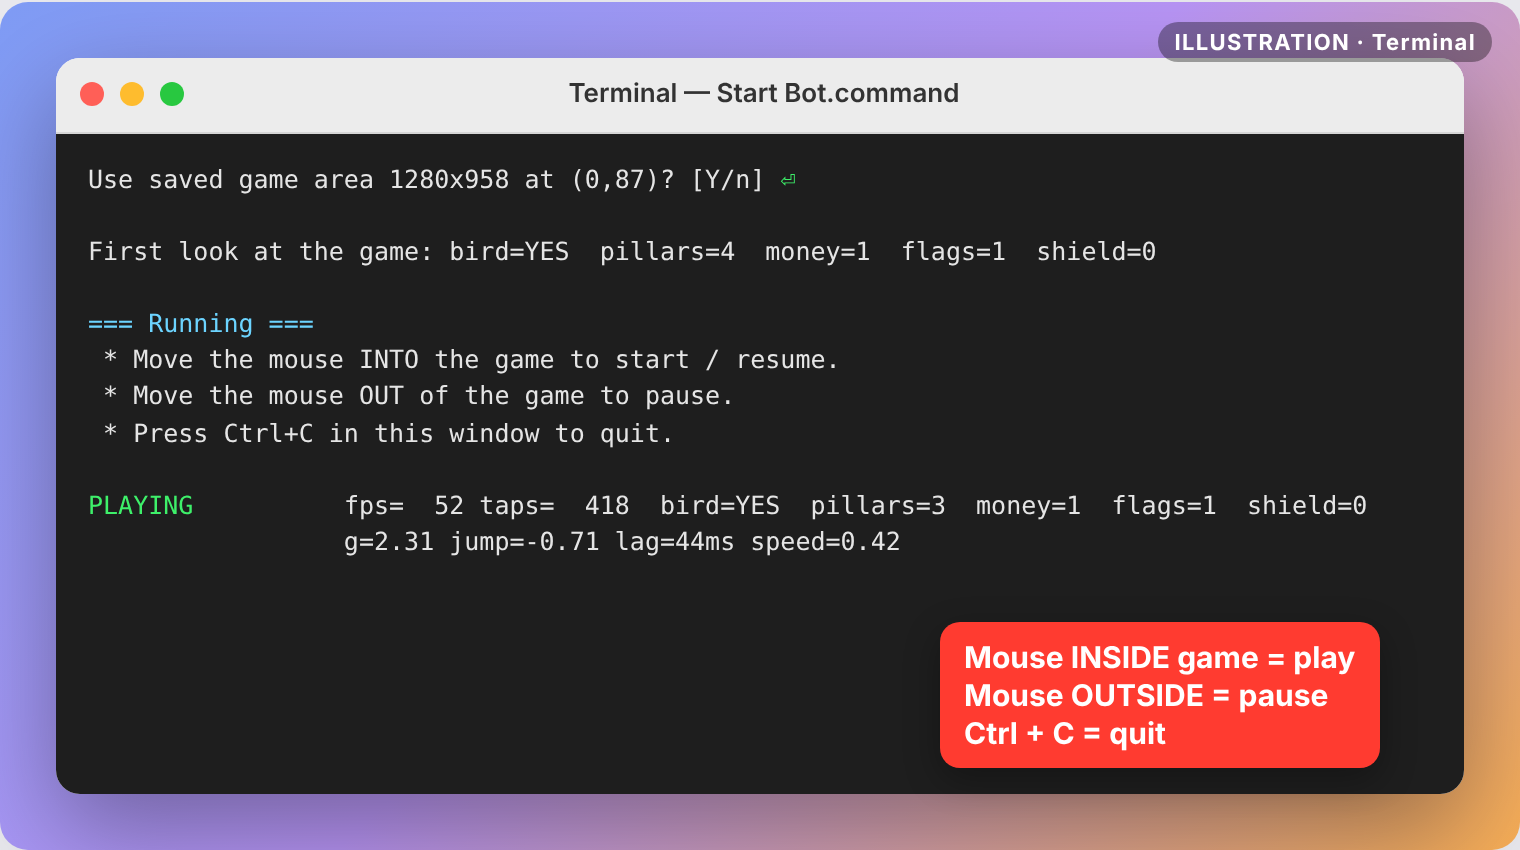
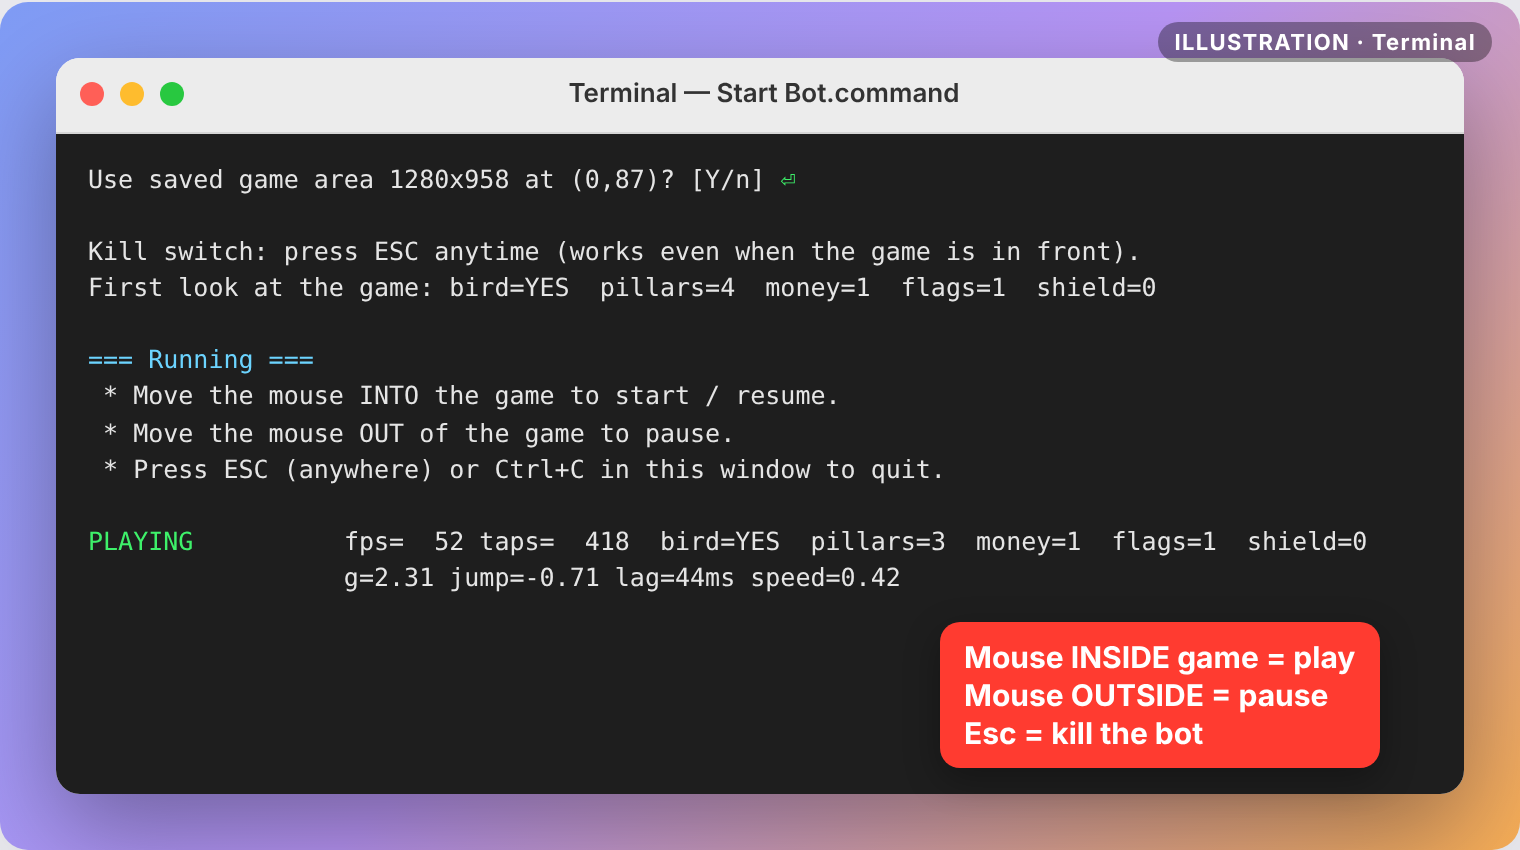
Global kill shortcut (default Esc, configurable with --kill-key)
A background thread polls the system-wide key state every 10 ms, so the
shortcut works even when the browser with the game is in front, and it
quits instantly even while the main loop is busy. CI simulates the key
press on a real macOS runner and checks the bot process dies.

Claude-Session: https://claude.ai/code/session_01PZTeHit8RgxNXBj63ptAjJ

diff --git a/docs/tutorial-src/mockups.html b/docs/tutorial-src/mockups.html
@@ -262,17 +262,18 @@ Press ENTER after enabling to re-check (Ctrl+C to quit)... <span style="backgrou
     <div class="bar"><span class="dot r"></span><span class="dot y"></span><span class="dot g"></span><span class="title">Terminal — Start Bot.command</span></div>
     <div class="tbody" style="height:330px">Use saved game area 1280x958 at (0,87)? [Y/n] <span class="gr">⏎</span>
 
+Kill switch: press ESC anytime (works even when the game is in front).
 First look at the game: bird=YES  pillars=4  money=1  flags=1  shield=0
 
 <span class="cy">=== Running ===</span>
  * Move the mouse INTO the game to start / resume.
  * Move the mouse OUT of the game to pause.
- * Press Ctrl+C in this window to quit.
+ * Press ESC (anywhere) or Ctrl+C in this window to quit.
 
 <span class="gr">PLAYING</span>          fps=  52 taps=  418  bird=YES  pillars=3  money=1  flags=1  shield=0
                  g=2.31 jump=-0.71 lag=44ms speed=0.42</div>
   </div>
-  <div class="callout" style="left:470px;top:310px">Mouse INSIDE game = play<br>Mouse OUTSIDE = pause<br>Ctrl + C = quit</div>
+  <div class="callout" style="left:470px;top:310px">Mouse INSIDE game = play<br>Mouse OUTSIDE = pause<br>Esc = kill the bot</div>
 </div>
 
 <!-- 8: what the bot sees -->

diff --git a/flappybot/macos.py b/flappybot/macos.py
@@ -68,3 +68,66 @@ def has_accessibility() -> bool:
 
 def request_accessibility():
     subprocess.run(["open", "x-apple.systempreferences:com.apple.preference.security?Privacy_Accessibility"])
+
+
+# --- global kill shortcut ----------------------------------------------------
+# Works whichever app is in front (e.g. the browser with the game): we poll
+# the system-wide key state instead of waiting for key events.
+
+KEYCODES = {  # macOS virtual key codes (ANSI layout)
+    "a": 0, "s": 1, "d": 2, "f": 3, "h": 4, "g": 5, "z": 6, "x": 7, "c": 8, "v": 9,
+    "b": 11, "q": 12, "w": 13, "e": 14, "r": 15, "y": 16, "t": 17, "1": 18, "2": 19,
+    "3": 20, "4": 21, "6": 22, "5": 23, "9": 25, "7": 26, "8": 28, "0": 29, "o": 31,
+    "u": 32, "i": 34, "p": 35, "l": 37, "j": 38, "k": 40, "n": 45, "m": 46,
+    "return": 36, "enter": 36, "tab": 48, "space": 49, "esc": 53, "escape": 53,
+    "f1": 122, "f2": 120, "f3": 99, "f4": 118, "f5": 96, "f6": 97, "f7": 98, "f8": 100,
+    "f9": 101, "f10": 109, "f11": 103, "f12": 111,
+}
+MODIFIERS = {"ctrl": "kCGEventFlagMaskControl", "control": "kCGEventFlagMaskControl",
+             "alt": "kCGEventFlagMaskAlternate", "option": "kCGEventFlagMaskAlternate",
+             "opt": "kCGEventFlagMaskAlternate", "cmd": "kCGEventFlagMaskCommand",
+             "command": "kCGEventFlagMaskCommand", "shift": "kCGEventFlagMaskShift"}
+
+
+def parse_hotkey(text: str) -> tuple[int, int]:
+    """'esc' or 'ctrl+alt+k' -> (keycode, modifier mask). Raises ValueError."""
+    import Quartz
+
+    parts = [p.strip().lower() for p in text.replace("-", "+").split("+") if p.strip()]
+    if not parts or parts[-1] not in KEYCODES:
+        raise ValueError(f"unknown key in {text!r}; use e.g. esc, f12, ctrl+alt+k")
+    mask = 0
+    for m in parts[:-1]:
+        if m not in MODIFIERS:
+            raise ValueError(f"unknown modifier {m!r}; use ctrl, alt/option, cmd, shift")
+        mask |= getattr(Quartz, MODIFIERS[m])
+    return KEYCODES[parts[-1]], mask
+
+
+def hotkey_pressed(keycode: int, mask: int) -> bool:
+    import Quartz
+
+    state = Quartz.kCGEventSourceStateCombinedSessionState
+    if not Quartz.CGEventSourceKeyState(state, keycode):
+        return False
+    return (Quartz.CGEventSourceFlagsState(state) & mask) == mask
+
+
+def start_kill_switch(hotkey: str, on_kill) -> None:
+    """Background thread: calls on_kill() as soon as the hotkey is held."""
+    import threading
+    import time
+
+    keycode, mask = parse_hotkey(hotkey)
+
+    def watch():
+        while True:
+            try:
+                if hotkey_pressed(keycode, mask):
+                    on_kill()
+                    return
+            except Exception:
+                pass
+            time.sleep(0.01)
+
+    threading.Thread(target=watch, name="kill-switch", daemon=True).start()

diff --git a/scripts/ci_mac_killswitch.py b/scripts/ci_mac_killswitch.py
@@ -1,0 +1,63 @@
+"""CI check on a real Mac: does the global kill shortcut stop the bot process?
+
+Starts a child process with the kill switch armed, then simulates the key
+press system-wide (like a real keyboard would) and checks the child exited.
+"""
+import subprocess
+import sys
+import time
+
+import Quartz
+
+CHILD = """
+import os, sys, time
+sys.path.insert(0, '.')
+from flappybot.macos import start_kill_switch
+start_kill_switch(sys.argv[1], lambda: os._exit(7))
+time.sleep(8)
+os._exit(1)
+"""
+
+
+def key(code, down, flags=0):
+    ev = Quartz.CGEventCreateKeyboardEvent(None, code, down)
+    if flags:
+        Quartz.CGEventSetFlags(ev, flags)
+    Quartz.CGEventPost(Quartz.kCGHIDEventTap, ev)
+
+
+def trial(hotkey, press):
+    p = subprocess.Popen([sys.executable, "-c", CHILD, hotkey])
+    time.sleep(1.5)
+    t = time.perf_counter()
+    press()
+    try:
+        rc = p.wait(timeout=5)
+    except subprocess.TimeoutExpired:
+        p.kill()
+        rc = None
+    ok = rc == 7
+    print(f"{hotkey:12s} -> {'KILLED OK' if ok else 'NOT killed (rc=%s)' % rc}"
+          f" in {(time.perf_counter() - t) * 1000:.0f} ms")
+    return ok
+
+
+def press_esc():
+    key(53, True)
+    time.sleep(0.15)
+    key(53, False)
+
+
+def press_ctrl_alt_k():
+    ctrl, alt = Quartz.kCGEventFlagMaskControl, Quartz.kCGEventFlagMaskAlternate
+    key(59, True, ctrl)          # left control
+    key(58, True, ctrl | alt)    # left option
+    key(40, True, ctrl | alt)    # k
+    time.sleep(0.15)
+    key(40, False, ctrl | alt)
+    key(58, False, ctrl)
+    key(59, False, 0)
+
+
+results = [trial("esc", press_esc), trial("ctrl+alt+k", press_ctrl_alt_k)]
+sys.exit(0 if all(results) else 1)

diff --git a/flappybot/main.py b/flappybot/main.py
@@ -127,6 +127,8 @@ def main(argv=None):
     ap.add_argument("--flag-weight", type=float, default=10.0, help="how hard to avoid flags")
     ap.add_argument("--money-weight", type=float, default=1.0, help="how hard to chase money")
     ap.add_argument("--shield-weight", type=float, default=2.0, help="how hard to chase the blue YOLO shield")
+    ap.add_argument("--kill-key", default="esc",
+                    help="global shortcut that instantly quits the bot, e.g. esc, f12, ctrl+alt+k (default: esc)")
     a = ap.parse_args(argv)
 
     say(BANNER)
@@ -134,7 +136,18 @@ def main(argv=None):
         say("This bot drives a Mac (screen capture + clicks). Run it on macOS.")
         return 1
     check_permissions()
-    from .macos import Screen, click, mouse_pos
+    from .macos import Screen, click, mouse_pos, start_kill_switch
+
+    def kill():
+        print(f"\n\n[{a.kill_key.upper()} pressed] Bot killed.", flush=True)
+        os._exit(0)
+
+    try:
+        start_kill_switch(a.kill_key, kill)
+    except ValueError as e:
+        say(f"Bad --kill-key: {e}")
+        return 2
+    say(f"Kill switch: press {a.kill_key.upper()} anytime (works even when the game is in front).")
 
     cfg = load_cfg()
     region = cfg.get("region")
@@ -171,7 +184,7 @@ def main(argv=None):
     say("\n=== Running ===")
     say(" * Move the mouse INTO the game to start / resume.")
     say(" * Move the mouse OUT of the game to pause.")
-    say(" * Press Ctrl+C in this window to quit.\n")
+    say(f" * Press {a.kill_key.upper()} (anywhere) or Ctrl+C in this window to quit.\n")
 
     taps = 0
     frames = 0

diff --git a/flappybot/brain.py b/flappybot/brain.py
@@ -12,7 +12,7 @@ from dataclasses import dataclass
 
 import numpy as np
 
-from .vision import Box, Pillar, Scene, Vision
+from .vision import Pillar, Scene, Vision
 
 
 @dataclass

diff --git a/README.md b/README.md
@@ -40,6 +40,7 @@ extension: it plays like a (very fast) human.
 |---|---|
 | Mouse **inside** the game | plays |
 | Mouse **outside** the game | pauses |
+| **`Esc`** (anywhere, even with the game in front) | **kills the bot instantly** |
 | `Ctrl + C` in the Terminal window | quits |
 
 > Don't move or resize the browser window while the bot runs. If you did,
@@ -63,6 +64,7 @@ Options (append to the command above):
 | `--flag-weight 20` | avoid flags even harder (default 10) |
 | `--money-weight 2` | chase money harder (default 1) |
 | `--shield-weight 3` | chase the blue YOLO shield harder (default 2) |
+| `--kill-key ctrl+alt+k` | change the kill shortcut (default `esc`; e.g. `f12`, `cmd+shift+x`) |
 
 ---
 

diff --git a/docs/TUTORIAL.md b/docs/TUTORIAL.md
@@ -116,6 +116,7 @@ area?"*. If you moved or resized the browser, type **n** and select again.
 |---|---|
 | Move the mouse **into** the game | plays |
 | Move the mouse **out of** the game | pauses |
+| Press **Esc** (anywhere, even in the game) | **kills the bot instantly** |
 | Press **Ctrl + C** in Terminal | quits |
 
 ![Terminal while the bot plays](images/step7.png)
